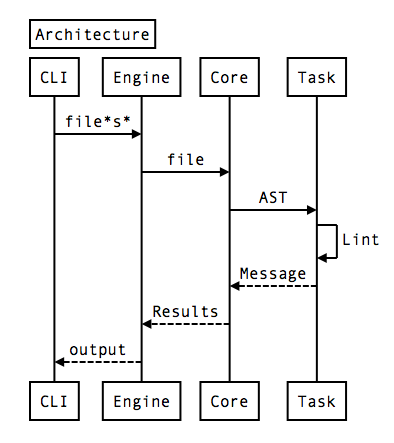
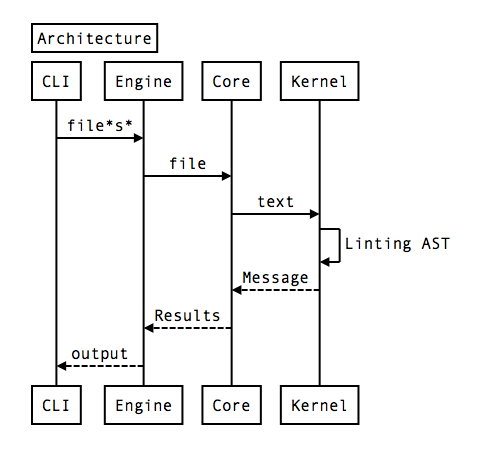
docs(textlint): Update architecture overview

Changed region(s): [[0.0609, 0.0293, 0.9746, 0.9684]]

diff --git a/packages/textlint/src/textlint-core.js b/packages/textlint/src/textlint-core.js
@@ -6,7 +6,7 @@
  */
 const path = require("path");
 const ObjectAssign = require("object-assign");
-import { TextlintKernel } from "../../textlint-kernel/src/textlint-kernel";
+import { TextlintKernel } from "@textlint/kernel";
 import { readFile } from "./util/fs-promise";
 import { Processor as MarkdownProcessor } from "textlint-plugin-markdown";
 import { Processor as TextProcessor } from "textlint-plugin-text";

diff --git a/packages/textlint/src/README.md b/packages/textlint/src/README.md
@@ -8,15 +8,16 @@
 title: Architecture
 CLI->Engine: file*s*
 Engine->Core: file
-Core->Task: AST
-Task->Task: Lint
-Task-->Core: Message
+Core->Kernel: text
+Kernel->Kernel: Linting text
+Kernel-->Core: Message
 Core-->Engine: Results
 Engine-->CLI: output
 ```
 
 - CLI know Engine
 - Engine know Core
+- Core know [kernel](https://github.com/textlint/textlint/tree/master/packages/textlint-kernel/)
 
 textlint apply [Separation of Concern](http://weblogs.asp.net/arturtrosin/separation-of-concern-vs-single-responsibility-principle-soc-vs-srp "Separation of Concern").
 
@@ -80,15 +81,6 @@ To be clear about difference of linter and fixer.
 - Do linting to the AST
 - Create fixable messages from the result
 - Could handle a single files
-
-## Shared
-
-These are shared between config and engine and core.
-
-- type
-- util function
-
-
 
 ## Terms
 
